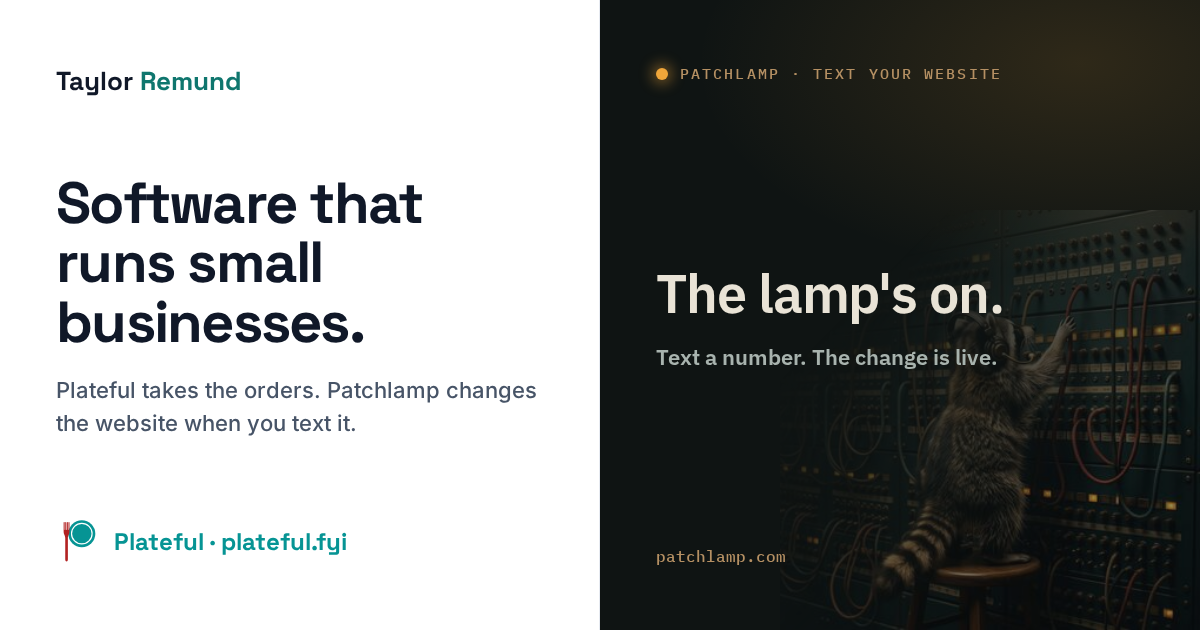
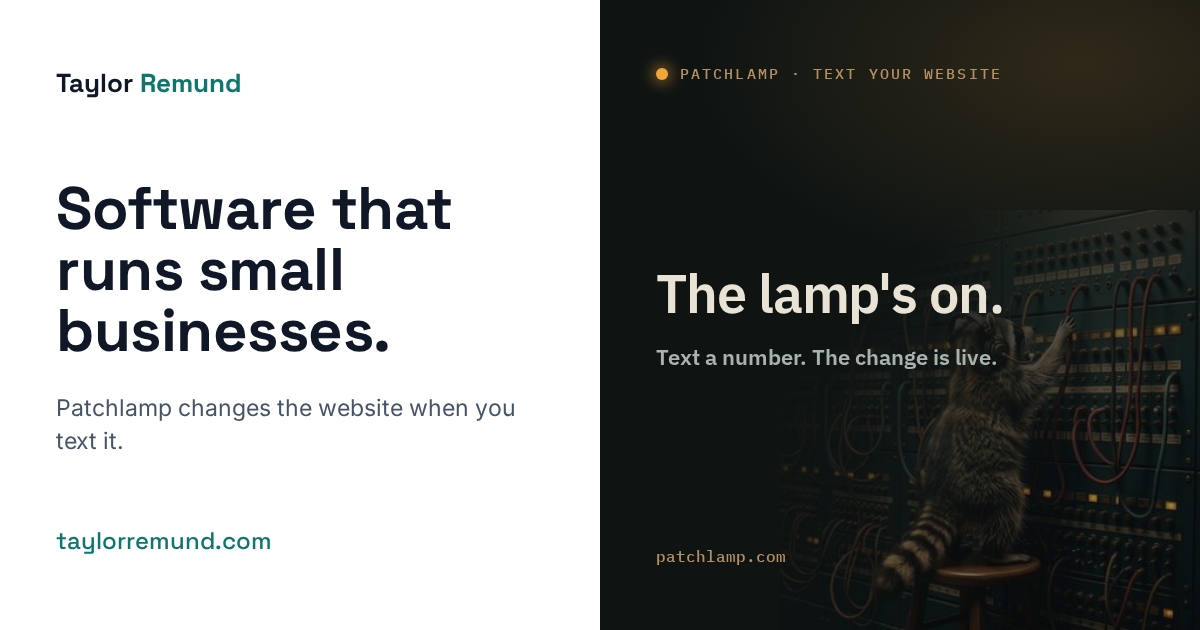
Share card: Patchlamp only, Plateful line and plateful.fyi off (B28)

diff --git a/CLAUDE.md b/CLAUDE.md
@@ -24,7 +24,7 @@ This repo is also a sales exhibit: it is maintained exactly the way Taylor maint
 - `index.html` — the homepage: nav, hero with `.product-cards` (Patchlamp + Services), `.section-patchlamp` band, services teaser, short about, contact, footer.
 - `ai/index.html` — the services page (nav, hero, how-it-works, packages, `.pl-panel` for Patchlamp, why-me, FAQ, contact).
 - `resume/index.html` — the résumé page; its skills/projects/experience markup is the old homepage's, unchanged.
-- `assets/icons.svg` — the shared icon sprite (`<use href="assets/icons.svg#icon-github">`; `../assets/...` from a subfolder). `assets/og.png` is the share card (both marks); `assets/exchange-room-*` are Patchlamp's brand images, copied from the patchlamp repo.
+- `assets/icons.svg` — the shared icon sprite (`<use href="assets/icons.svg#icon-github">`; `../assets/...` from a subfolder). `assets/og.png` is the share card (Patchlamp only since 2026-09-24); `assets/exchange-room-*` are Patchlamp's brand images, copied from the patchlamp repo.
 - `privacy/index.html`, `terms/index.html`, `sms/index.html` — legal/compliance pages, same nav/footer, `.legal` wrapper. `/sms/` is the public opt-in page Twilio's 10DLC reviewer checks: it must show the service number, the consent/STOP/HELP/rates language, and link privacy + terms. Footer on every page links all three.
 - `style.css` — all styles for every page. Shared design tokens live in `:root`; the Patchlamp tokens (`--pl-*`) are scoped to `.section-patchlamp, .product-card--patchlamp, .pl-panel` and nowhere else. AI-page classes `svc-`, `pkg-`, `step-`, `faq-`; legal `legal-`; footer `footer-links`; the redesign's `product-card*`, `pl-*` block is at the end of the file.
 - `script.js` — mobile nav, scroll reveal, active-nav highlighting. Shared by every page. (The typewriter is gone.)
